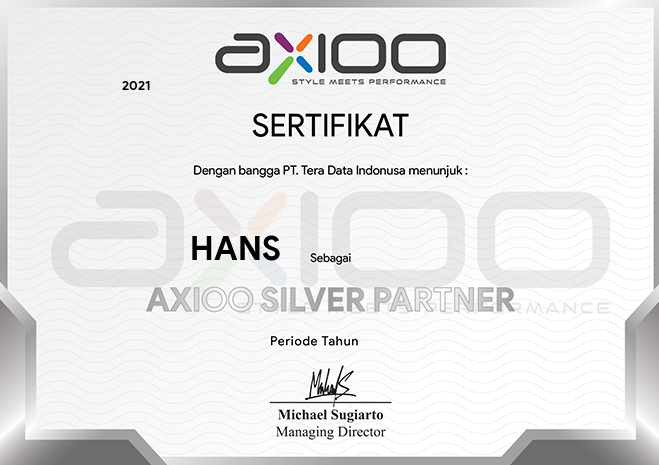
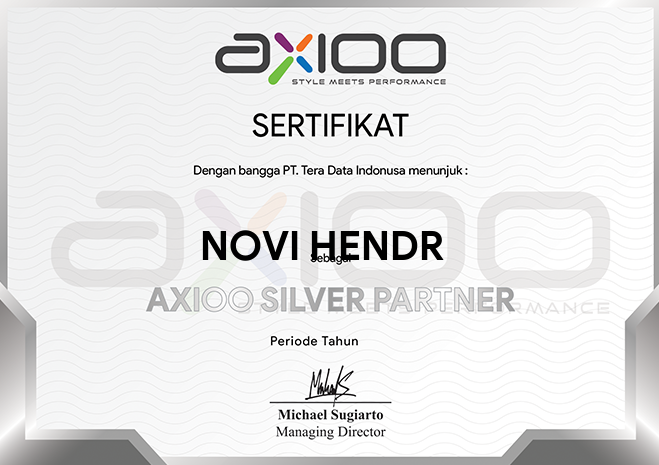
fix div

Changed region(s): [[0.2731, 0.4817, 0.6677, 0.572], [0.1821, 0.1505, 0.2428, 0.2108]]

diff --git a/output.php b/output.php
@@ -1,0 +1,105 @@
+<link rel="stylesheet" href="https://stackpath.bootstrapcdn.com/bootstrap/4.4.1/css/bootstrap.min.css" integrity="sha384-Vkoo8x4CGsO3+Hhxv8T/Q5PaXtkKtu6ug5TOeNV6gBiFeWPGFN9MuhOf23Q9Ifjh" crossorigin="anonymous">
+<script src="https://code.jquery.com/jquery-3.6.0.min.js" integrity="sha256-/xUj+3OJU5yExlq6GSYGSHk7tPXikynS7ogEvDej/m4=" crossorigin="anonymous"></script>
+<style>
+@font-face {
+  font-family: prodsans;
+  src: url(./prodsans.ttf);
+}
+p {
+    font-family: prodsans;
+}
+</style>
+<?php
+    if (isset($_POST['cetak'])) {
+      switch($_POST['member']){
+          case '1':  //Sertif silver
+            $image = "silver.png";
+            break;
+        
+          case '2':
+            $image = "gold.png";
+            break;
+
+          case '3':
+            $image = "platinum.png";
+            break;
+        
+        default:
+        echo "Masukkan Pilihan";
+      }
+
+      $name = strtoupper($_POST['nama']);
+          $nama_len = strlen($_POST['nama']);
+          $tahun = $_POST['tahun'];
+          if ($tahun) {
+              $font_size_tahun=10;
+          }
+          
+          $createimage = imagecreatefrompng($image);
+          $output = "sertifikat.png";
+
+          $white = imagecolorallocate($createimage, 205, 245, 255);
+          $black = imagecolorallocate($createimage, 0, 0, 0);
+          
+          $rotation = 0;
+          $origin_x = 200;
+          $origin_y=260;
+          $origin1_x = 120;
+          $origin1_y=90;
+          
+          if($nama_len<=7){
+            $font_size = 25;
+            $origin_x = 190;
+          }
+          elseif($nama_len<=12){
+            $font_size = 30;
+          }
+          elseif($nama_len<=15){
+            $font_size = 26;
+          }
+          elseif($nama_len<=20){
+             $font_size = 18;
+          }
+          elseif($nama_len<=22){
+            $font_size = 15;
+          }
+          elseif($nama_len<=33){
+            $font_size=11;
+          }
+          else {
+            $font_size =10;
+          }
+
+          $certificate_text = $name;
+          
+          //untuk font
+          $drFont = dirname(__FILE__)."/prodsans.ttf";
+
+          //Munculin nama
+          $text1 = imagettftext($createimage, $font_size, $rotation, $origin_x, $origin_y, $black,$drFont, $certificate_text);
+
+          //Munculin tahun
+        //   $text2 = imagettftext($createimage, $font_size_tahun, $rotation, $origin1_x+2, $origin1_y, $black, $drFont1, $tahun);
+
+          imagepng($createimage,$output,3);
+
+          $imgSize=  getimagesize($output);
+          $imgWidth = $imgSize[0];
+          $imgHeight = $imgSize[1];
+          ?>
+          <div id="wrapper"></div>
+          <!-- <img src="<?php //echo $output; ?>"> -->
+          <script type="text/javascript">
+            $(document).ready(function() {
+              var imgW = <?= $imgWidth;?>;
+              var imgH = <?= $imgHeight;?>;
+              var div = document.createElement('div');
+              div.id = 'content';
+              div.style.width=imgW;
+              div.style.height=imgH;
+              document.getElementById('wrapper').appendChild(div);
+              $(div).wrapAll("<div class='row d-flex justify-content-center'><div class='col-12'><p id='text'></p></div></div>");
+            });
+          </script>
+<?php
+    }

diff --git a/index.php b/index.php
@@ -12,7 +12,7 @@
   <body>
   <center>
       <!-- Bagian Head -->
-      <form method="POST" action="">
+      <form method="POST" action="output.php">
       <br><br><br>
       <h3 style="color:blue;">Cetak Sertifikat TDI</h3>
       <br>
@@ -50,84 +50,3 @@
       <button type="submit" name="cetak" class="btn btn-primary">Cetak</button>
     </form>
     <!-- Bagian Proses -->
-    <?php
-    if (isset($_POST['cetak'])) {
-      switch($_POST['member']){
-          case '1':  //Sertif silver
-            $image = "silver.png";
-            break;
-        
-          case '2':
-            $image = "gold.png";
-            break;
-
-          case '3':
-            $image = "platinum.png";
-            break;
-        
-        default:
-        echo "Masukkan Pilihan";
-      }
-
-      $name = strtoupper($_POST['nama']);
-          $nama_len = strlen($_POST['nama']);
-          $tahun = $_POST['tahun'];
-          if ($tahun) {
-              $font_size_tahun=10;
-          }
-          
-          $createimage = imagecreatefrompng($image);
-          $output = "sertifikat.png";
-
-          $white = imagecolorallocate($createimage, 205, 245, 255);
-          $black = imagecolorallocate($createimage, 0, 0, 0);
-          
-          $rotation = 0;
-          $origin_x = 200;
-          $origin_y=260;
-          $origin1_x = 120;
-          $origin1_y=90;
-          
-          if($nama_len<=7){
-            $font_size = 25;
-            $origin_x = 190;
-          }
-          elseif($nama_len<=12){
-            $font_size = 30;
-          }
-          elseif($nama_len<=15){
-            $font_size = 26;
-          }
-          elseif($nama_len<=20){
-             $font_size = 18;
-          }
-          elseif($nama_len<=22){
-            $font_size = 15;
-          }
-          elseif($nama_len<=33){
-            $font_size=11;
-          }
-          else {
-            $font_size =10;
-          }
-
-          $certificate_text = $name;
-          
-          //untuk font
-          $drFont = dirname(__FILE__)."/prodsans.ttf";
-          $drFont1 = dirname(__FILE__)."/prodsans.ttf";
-
-          //Munculin nama
-          $text1 = imagettftext($createimage, $font_size, $rotation, $origin_x, $origin_y, $black,$drFont, $certificate_text);
-
-          //Munculin tahun
-          $text2 = imagettftext($createimage, $font_size_tahun, $rotation, $origin1_x+2, $origin1_y, $black, $drFont1, $tahun);
-
-          imagepng($createimage,$output,3);
-?>
-          <img src="<?php echo $output; ?>">
-          <br> 
-          <br>
-<?php
-          var_dump(getimagesize($output));
-    }
